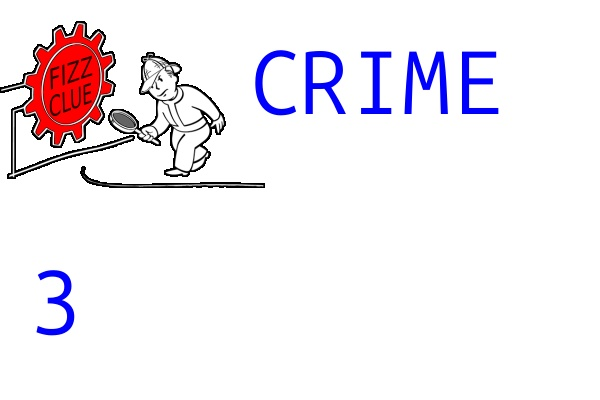
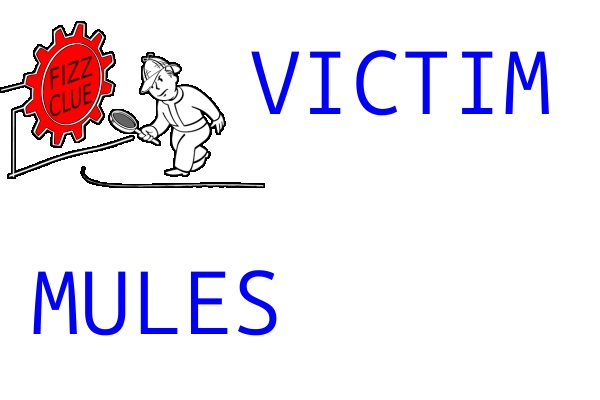
[WIP] Feature: Score tracker: downloads clues from phas.ubc.ca

Changed region(s): [[0.42, 0.12, 0.93, 0.3], [0.03, 0.66, 0.48, 0.84]]

diff --git a/src/my_robot_bringup/world/clueboard_scripts/clueboard_generator.py b/src/my_robot_bringup/world/clueboard_scripts/clueboard_generator.py
@@ -1,12 +1,15 @@
-import numpy as np
+import csv
 import cv2
+import numpy as np
+import requests
 import shutil
-from pathlib import Path
 
+from pathlib import Path
 from PIL import Image, ImageFont, ImageDraw
 
 def quick_clear(path, file_type):
-    
+    '''
+    '''
     if path.exists() and path.is_dir():
         deleted_count = 0
         
@@ -20,9 +23,62 @@ def quick_clear(path, file_type):
     else:
         path.mkdir() # If no path is found, make new one
         print(f"Directory not found. Created empty folder at: {path}")
+
+
+def loadCrimesProfileCompetition(script_folder_path):
+    '''
+    @brief returns a set of clues for one game and save them to plates.csv
+
+    @retval clue dictionary of the form 
+                [size:value, victim:value, ...
+                 crime:value,time:value,
+                 place:value,motive:value,
+                 weapon:value,bandit:value]
+    '''
+    URL = "https://phas.ubc.ca/~miti/ENPH353/ENPH353Clues.csv"
+
+    print("Loading clues ...")
+    response = None
+    try:
+        response = requests.get(URL, timeout=2)
+        response.raise_for_status()
+    except requests.exceptions.RequestException as e:
+        # This will catch HTTPError, ConnectionError, Timeout, etc.
+        print(f"The request failed: {e}")
+
+    if response is None:
+        print("Could not download clues. Using default clues!")
+        key_list = ["SIZE", "CRIME", "PLACE", "WEAPON", 
+                    "VICTIM", "TIME", "MOTIVE", "BANDIT",]
+        value_list = ["D 3", "D SPIN", "D HALLWAY", "D WHEEL",
+                      "D ELECTRONS", "D BIG BANG", "D NEGATIVITY", "D PROTON"]
+    else:
+        raw = response.text.split('\n')
+        key_list   = raw[0].split(',')
+        value_list = raw[1].split(',')
+
+    print("### CLUES USED: ")
+    # We save the clues to clues.csv
+    with open(script_folder_path / "clues.csv", 'w') as plates_file:
+        csvwriter = csv.writer(plates_file)
+
+        for (key, value) in zip(key_list, value_list):
+            csvwriter.writerow([key, value.upper()])
+            print(key.upper() + ":" + value.upper())
+
+    #We put the clues and values in a list to be displayed on the boards
+    clues = [[key.upper(), value.upper()] for key, value in zip(key_list, value_list)]
+
+    return clues
         
 
 def banner_generator(script_dir, num_signs):
+    '''
+    @brief
+    '''
+
+    # Download clues from website:
+
     output_path = script_dir.parent / 'models' / 'clue_board' / 'banners'
     base_banner_path = script_dir.parent / "clueboard_scripts" / "clue_banner.png"
     
@@ -32,14 +88,7 @@ def banner_generator(script_dir, num_signs):
 
     banner = cv2.imread(base_banner_path.as_posix())
 
-    text = [["SIZE", "3"],
-            ["CRIME", "3"],
-            ["PLACE", "3"],
-            ["WEAPON", "3"],
-            ["VICTIM", "3"],
-            ["TIME", "3"],
-            ["MOTIVE", "3"],
-            ["BANDIT", "3"]]
+    text = loadCrimesProfileCompetition(script_dir.parent)
 
     # Generate the images with text
     for i in range(num_signs):
@@ -59,6 +108,8 @@ def banner_generator(script_dir, num_signs):
         cv2.imwrite(str(output_path / jpg_name), populated_banner)
 
 def sdf_generator(script_dir, num_signs):
+    '''
+    '''
     output_path = script_dir.parent / 'models' / 'clue_board'
 
     quick_clear(output_path, ".sdf")

diff --git a/src/bringup_nodes/bringup_nodes/score_tracker.py b/src/bringup_nodes/bringup_nodes/score_tracker.py
@@ -22,7 +22,9 @@ import sys
 
 NUM_LOCATIONS = 8
 UI_TIMER_FREQ_MS = 500
-ROUND_DURATION_s = 20#240
+ROUND_DURATION_s = 240
+
+SCRIPT_FILE_PATH = os.path.dirname(os.path.realpath(__file__))
 
 class RosWorker(QThread):
     '''
@@ -92,6 +94,9 @@ class RosWorker(QThread):
 
    
     def stop(self):
+        '''
+        @brief hook to stop the thread elegantly
+        '''
         self.requestInterruption()
         self.wait()
 
@@ -100,15 +105,15 @@ class Window(QtWidgets.QMainWindow):
     '''
     '''
 
-    def __init__(self):
+    def __init__(self, clues_file_path):
         '''
         '''
         super(Window, self).__init__()
 
-        script_dir = os.path.dirname(os.path.abspath(__file__))
+        self.clues_file_path = clues_file_path
 
         # Register the UI elements in Python
-        loadUi(script_dir + "/score_tracker.ui", self)
+        loadUi(SCRIPT_FILE_PATH + "/score_tracker.ui", self)
 
         # Add logo
         pixmap = QPixmap('FIZZ_CLUE.svg')
@@ -131,9 +136,7 @@ class Window(QtWidgets.QMainWindow):
 
         # Populate table contents
         # @sa plate_generator.py: this is where the plates.csv is generated
-        LICENSE_PLATE_FILE = '/plates.csv'
-        SCRIPT_FILE_PATH = os.path.dirname(os.path.realpath(__file__))
-        with open(SCRIPT_FILE_PATH + LICENSE_PLATE_FILE, "r") as plate_file:
+        with open(self.clues_file_path, "r") as plate_file:
             platereader = csv.reader(plate_file)
             i=0
             for row in platereader:
@@ -367,7 +370,7 @@ class Window(QtWidgets.QMainWindow):
         
         self.elapsed_real_time_s = 0
         self.sim_start_time_s = self.get_sim_time()
-        
+
         self.elapsed_time_value_QL.setText(
             "{:03d} sec".format(self.elapsed_real_time_s))
         
@@ -509,8 +512,15 @@ Clue: BANDIT: {bandit}"""
 def main():
     signal.signal(signal.SIGINT, signal.SIG_DFL)
 
+    if len(sys.argv) > 1:
+        clues_file_path = sys.argv[1]
+        print(f"The clues_file_path is: {clues_file_path}")
+    else:
+        print("Score Tracker started with no arguments. Exiting.")
+        return
+
     app = QtWidgets.QApplication(sys.argv)
-    window = Window()
+    window = Window(clues_file_path)
     window.show()
 
     sys.exit(app.exec_())

diff --git a/src/my_robot_bringup/launch/my_robot.launch.py b/src/my_robot_bringup/launch/my_robot.launch.py
@@ -28,6 +28,7 @@ def generate_launch_description():
     world_path = my_robot_bringup_dir / 'world'
 
     clueboard_generator_path = world_path / "clueboard_scripts"
+    clueboard_csv = world_path / "clues.csv"
     
     if clueboard_generator_path.as_posix() not in sys.path:
         sys.path.append(clueboard_generator_path.as_posix())
@@ -141,7 +142,7 @@ def generate_launch_description():
     ) 
 
     start_score_tracker = ExecuteProcess(
-        cmd=[bringup_nodes_dir / 'score_tracker.py'],
+        cmd=[bringup_nodes_dir / 'score_tracker.py', clueboard_csv.as_posix()],
         output='screen'
     ) 
     

diff --git a/src/bringup_nodes/setup.py b/src/bringup_nodes/setup.py
@@ -15,7 +15,7 @@ setup(
     install_requires=['setuptools'],
     zip_safe=True,
     maintainer='fizzer',
-    maintainer_email='taigasery78@gmail.com',
+    maintainer_email='miti@phas.ubc.ca',
     description='TODO: Package description',
     license='TODO: License declaration',
     extras_require={
